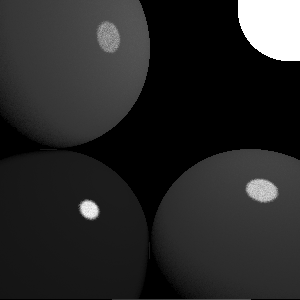
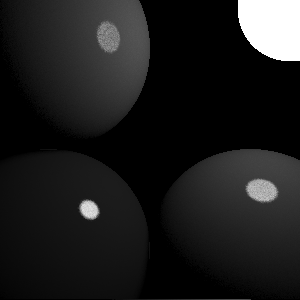
fixed a little bug

diff --git a/task07/main.cpp b/task07/main.cpp
@@ -367,7 +367,7 @@ int main() {
         if (hit1_object == -1){ continue; }
         float hit1_rad = spheres[hit1_object].emission;
         // compute the contribution for this pixel
-        float rad = hit0_brdf*hit1_rad/hit0_pdf/nsample; // replace this with some code
+        float rad = hit0_brdf*hit0_refl.dot(hit0_normal)*hit1_rad/hit0_pdf/nsample; // replace this with some code
         img_light[ih * img_width + iw] += rad;
       }
       // -----------------
@@ -386,7 +386,7 @@ int main() {
         if (hit1_object == -1){ continue; }
         float hit1_rad = spheres[hit1_object].emission;
         // compute the contribution for this pixel
-        float rad = hit0_brdf*hit1_rad/hit0_pdf/nsample; // replace this with some code
+        float rad = hit0_brdf*hit0_refl.dot(hit0_normal)*hit1_rad/hit0_pdf/nsample; // replace this with some code
         img_brdf[ih * img_width + iw] += rad;
       }
       // -----------------
@@ -404,7 +404,7 @@ int main() {
         float hit1_rad = spheres[hit1_object].emission;
         float hit0_pdf_brdf_sample = spheres[hit0_object].pdf(hit0_normal, cam_ray_dir, hit0_refl);
         float hit0_pdf_light_sample = pdf_light_sample(hit0_normal, hit0_pos, cam_ray_dir, hit0_refl, hit0_object);
-        float rad = hit0_brdf*hit1_rad*(hit0_pdf_light_sample/(hit0_pdf_brdf_sample+hit0_pdf_light_sample))/hit0_pdf_light_sample/num_half_sample; // write some code
+        float rad = hit0_brdf*hit0_refl.dot(hit0_normal)*hit1_rad*(hit0_pdf_light_sample/(hit0_pdf_brdf_sample+hit0_pdf_light_sample))/hit0_pdf_light_sample/num_half_sample; // write some code
         // float rad = hit0_brdf*hit1_rad/(hit0_pdf_brdf_sample+hit0_pdf_light_sample)/num_half_sample;
         img_mis[ih * img_width + iw] += rad;
       }
@@ -417,7 +417,7 @@ int main() {
         float hit1_rad = spheres[hit1_object].emission;
         float hit0_pdf_light_sample = pdf_light_sample(hit0_normal, hit0_pos, cam_ray_dir, hit0_refl, hit0_object);
         float hit0_pdf_brdf_sample = spheres[hit0_object].pdf(hit0_normal, cam_ray_dir, hit0_refl);
-        float rad = hit0_brdf*hit1_rad*(hit0_pdf_brdf_sample/(hit0_pdf_brdf_sample+hit0_pdf_light_sample))/hit0_pdf_brdf_sample/num_half_sample; // write some code
+        float rad = hit0_brdf*hit0_refl.dot(hit0_normal)*hit1_rad*(hit0_pdf_brdf_sample/(hit0_pdf_brdf_sample+hit0_pdf_light_sample))/hit0_pdf_brdf_sample/num_half_sample; // write some code
         // float rad = hit0_brdf*hit1_rad/(hit0_pdf_brdf_sample+hit0_pdf_light_sample)/num_half_sample;
         img_mis[ih * img_width + iw] += rad;
       }
